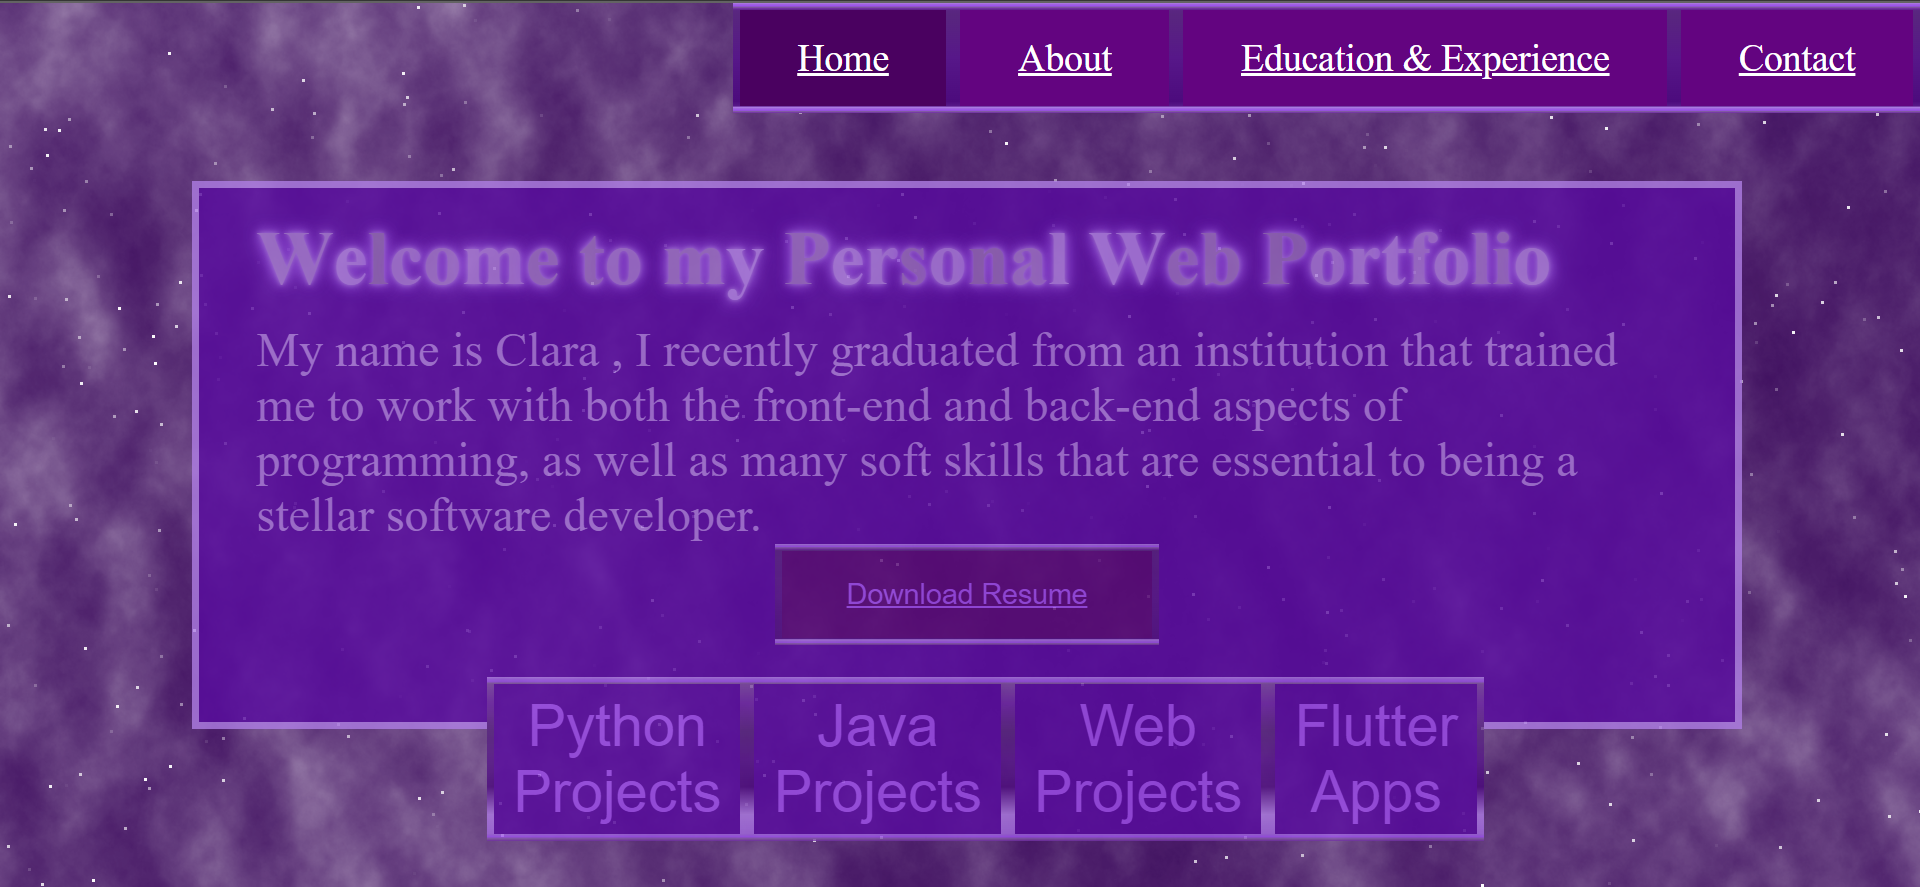
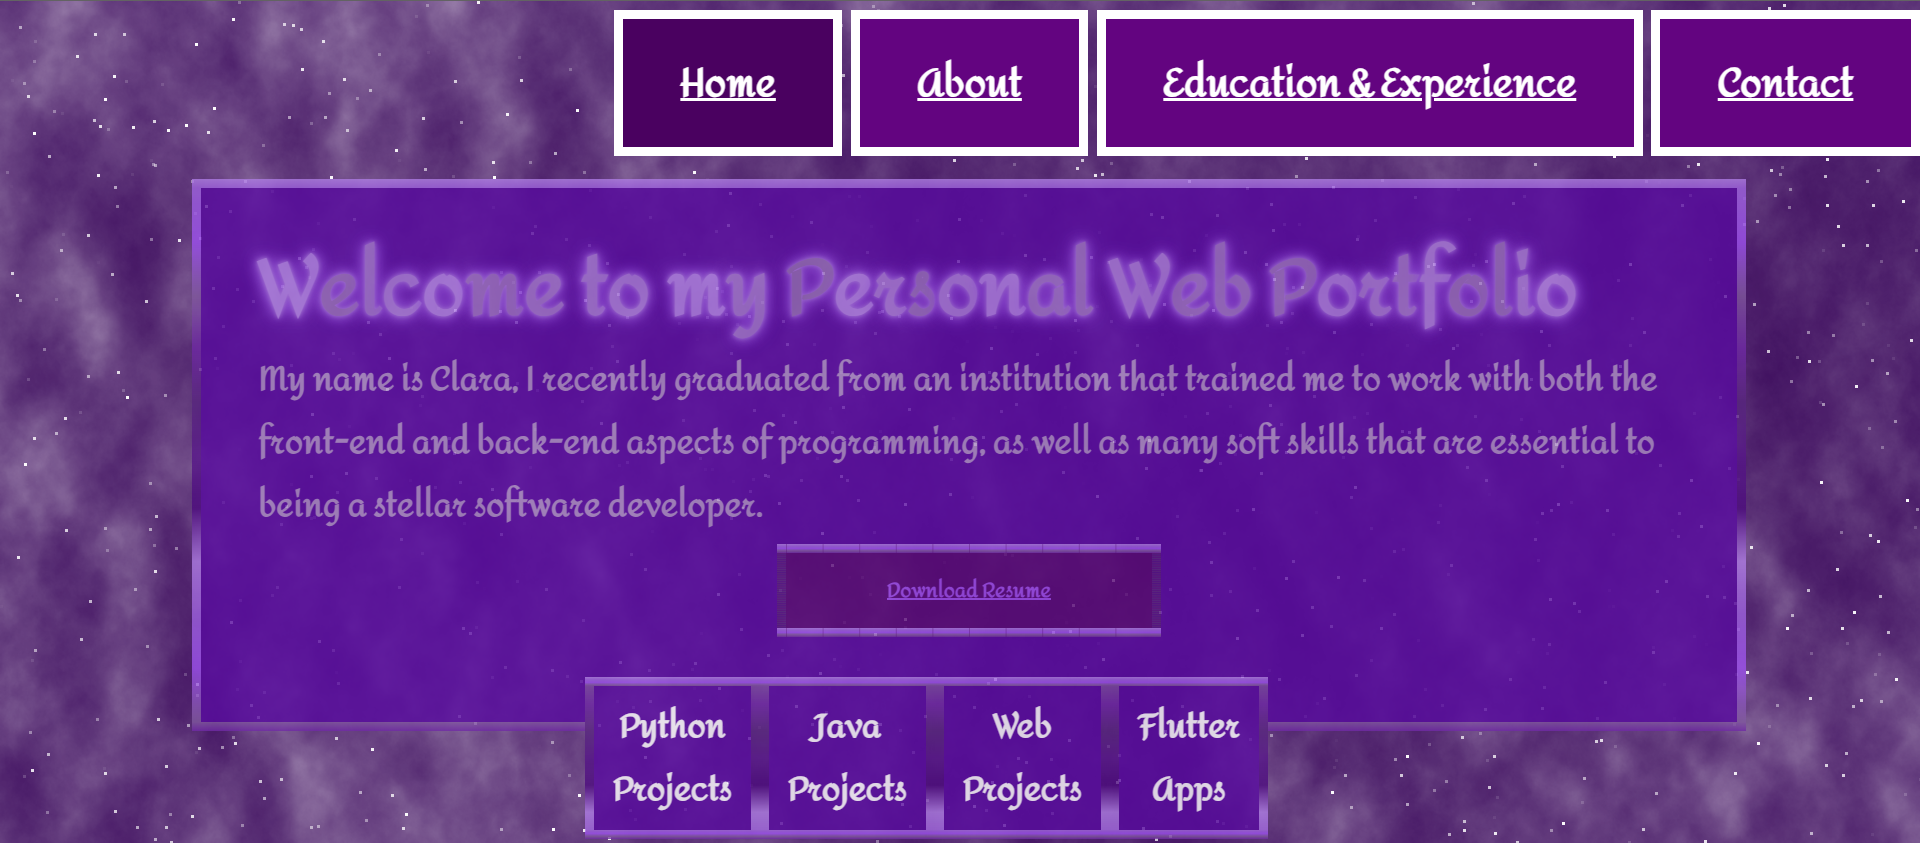
Modifications

diff --git a/portfolio.css b/portfolio.css
@@ -14,17 +14,16 @@ img{
   height: 50vh;
 }
 hr{
-  height: 5px;
+  height: 10px;
   border: none;
   background-color: #7c1586;
-  border-radius: 10px;
   margin-top: 0px;
   margin-bottom: 2vh;
-  border-radius: 5%;
+  border-radius: 30vw;
 }
 .nav-bar {
   float: right;
-  font-size: 25px;
+  font-size: 2vw;
   border-radius: 5;
   margin-left:0 ;
   margin-top: 5vh;  
@@ -37,9 +36,9 @@ hr{
   padding-left: 3vw;
   color: #f2f2f2;
   text-align: center;
-  border-width: 5px;
+  border-width: 0.5vw;
   border-style: solid;
-  border-radius: 5%;
+  /* border-radius: 5%; */
 }
 
 .nav-bar a.active {
@@ -54,7 +53,7 @@ hr{
 
 .nav-bar a:hover {
   background-color: #4a0160;
-  font-size: 25px;  
+  font-size: 2.3vw;
 }
 
 .starry_background {
@@ -85,8 +84,7 @@ hr{
   position: absolute; 
   background-color: rgb(87, 10, 159) ;  
   opacity: 0.8; 
-  border-width: 5px;  
-  border-radius: 5 ;
+  border-width: 0.5vw;  
   border-style: solid; 
   width: 80vw;
   height: 60vh;
@@ -94,7 +92,6 @@ hr{
   margin-right: 10vw;
   margin-left: 10vw;
   border-image: linear-gradient(#ae7de3,rgb(158, 98, 222),#9d51ef,#80589e, #6f29a5,rgb(88, 38, 126),rgb(87, 23, 137),#4c0b7d, #ae7de3,rgb(158, 98, 222),#9d51ef,#80589e, #6f29a5) 30;
-
 }
 
 
@@ -107,7 +104,6 @@ hr{
   margin-left: 3vw;
   margin-right: 3vw;
   color: #ae7de3;
-
 }
 
 .introduction h1 span {
@@ -189,19 +185,18 @@ hr{
   position: absolute;
   margin-top: 40vh;
   margin-left: 30vw; 
-  padding-top: 18px;
-  padding-bottom: 18px;
-  padding-right: 18px;
-  padding-left: 18px;
-  font-size: 20px;
-  border-radius: 10px;
+  padding-top: 2vh;
+  padding-bottom: 2vh;
+  padding-right: 2vw;
+  padding-left: 2vw;
   border-image: linear-gradient(#ae7de3,rgb(158, 98, 222),#9d51ef,#80589e, #6f29a5,rgb(88, 38, 126),rgb(87, 23, 137),#4c0b7d, #ae7de3,rgb(158, 98, 222),#9d51ef,#80589e, #6f29a5) 33% round; 
-  border-width: 5px;
+  border-width: 0.5vw;  
+  border-style: solid;   
   background: #570976;	
 }
 
 .resume a:hover {
-  font-size: 23px;  
+  font-size: 1.7vw;  
 }
 
 .skill-buttons {
@@ -213,26 +208,24 @@ hr{
 
 .skill1, .skill2, .skill3, .skill4{
     background-color: rgb(87, 10, 159); 
-    border-radius: 5;
     border-image: linear-gradient(#ae7de3,rgb(158, 98, 222),#9d51ef,#80589e, #6f29a5,rgb(88, 38, 126),rgb(87, 23, 137),#4c0b7d, #ae7de3,rgb(158, 98, 222),#9d51ef,#80589e, #6f29a5) 30;
-    border-width: 5px;
+    border-width: 0.5vw;  
     border-style: solid;
     color: white;
     padding: 1vh 1vw 1vh 1vw;
-    font-size: 1.8vw;
+    font-size: 1.7vw;
     font-family: 'Amita';
     font-weight: bold;
 }
 .skill1:hover, .skill2:hover, .skill3:hover, .skill4:hover{
-  padding: 2vh 2vw 2vh 2vw;
   font-size: 2vw;
 }
 table,th,td{
   border-color: rgb(87, 10, 159) ;    
 }
 th,td{
-  border-radius: 10px;
-  border: 1px solid transparent;
+  border-radius: 1vw;
+  border: 1vw solid transparent;
 }
 
 .timeline{
@@ -242,7 +235,7 @@ th,td{
   margin-right: 10vw;
   margin-left: 10vw;
   border-image: linear-gradient(#ae7de3,rgb(158, 98, 222),#9d51ef,#80589e, #6f29a5,rgb(88, 38, 126),rgb(87, 23, 137),#4c0b7d, #ae7de3,rgb(158, 98, 222),#9d51ef,#80589e, #6f29a5) 30;
-  border-width: 5px;
+  border-width: 0.5vw;  
   border-style: solid;
   color: white;
   background-color: rgb(87, 10, 159) ;  
@@ -252,7 +245,6 @@ th,td{
   align-items: center;
   position: absolute; 
   border-spacing: 1vw;
-  font-size: 17px;
 }
 
 th, td{
@@ -266,10 +258,11 @@ th, td{
 
 td{
   background-color:  #630480;
+  font-size: 2.3vh;
 }
 
 th{
-  font-size: 20px;
+  font-size: 3vh;
   background-color: #7c1586;
 }
 
@@ -279,10 +272,9 @@ th{
   margin-top: 20vh;
   margin-right: 10vw;
   margin-left: 10vw;
-  border-radius: 5;
   border-image: linear-gradient(#ae7de3,rgb(158, 98, 222),#9d51ef,#80589e, #6f29a5,rgb(88, 38, 126),rgb(87, 23, 137),#4c0b7d, #ae7de3,rgb(158, 98, 222),#9d51ef,#80589e, #6f29a5) 30;
-  border-width: 5px;
-  border-style: solid; 
+  border-width: 0.5vw;  
+  border-style: solid;
   position: absolute; 
   color: white;
   background-color: rgb(87, 10, 159) ;  
@@ -299,16 +291,11 @@ th{
 
 .about hr{
   width: 70vw;
-  height: 5px;
-  border: none;
-  background-color: #7c1586;
-  border-radius: 10px;
+  /* height: 0.5vw; */
   margin-top: 0px;
   margin-left:5vw;
   margin-bottom: 2vh;
-  border-radius: 5%;
 }
-
 
 .about ol{
   margin-top:2%;
@@ -332,25 +319,12 @@ th{
   margin-top: 20vh;
   margin-right: 10vw;
   margin-left: 10vw;
-  font-size: 30px;
   background-color: rgb(87, 10, 159) ;  
-  border-radius: 5;
   border-image: linear-gradient(#ae7de3,rgb(158, 98, 222),#9d51ef,#80589e, #6f29a5,rgb(88, 38, 126),rgb(87, 23, 137),#4c0b7d, #ae7de3,rgb(158, 98, 222),#9d51ef,#80589e, #6f29a5) 30;
-  border-width: 5px;
+  border-width: 0.5vw;  
   border-style: solid;
   color: white;
-  opacity: 0.8; 
-  border-width: 5px;  
-  border-radius: 5 ;
-  border-style: solid;   
-}
-
-.socials_and_contact_icons img{
-  height: 7vh;
-  width: 4vw;
-  border: #4c0b7d;
-  border-width: 5px;
-  border-radius: 1vw;
+  opacity: 0.8;   
 }
 
 .contact_form, .socials_and_contact_icons{
@@ -367,15 +341,17 @@ th{
   margin-bottom: 0px;
 }
 .contact_form hr{
-  height: 5px;
-  border: none;
   background-color: #7c1586;
-  border-radius: 10px;
-  margin-bottom: 2vh;
-  border-radius: 5%;
+  margin-bottom: 2vh;  
+  /* border: none; */
+  /* background-color: #7c1586; */
+  /* margin-top: 0px;
+  margin-bottom: 2vh; */
+  /* border-radius: 30vw; */
 }
 .contact_form {
-  width: 35%;  
+  width: 35%; 
+  height: auto; 
   margin-bottom: 1vh;
 }
 
@@ -384,25 +360,36 @@ th{
   border-radius: 7vw;
   outline: none;
   margin-bottom: 1vh;
+  line-height: 1.5em;
 }
 
-input,textarea {
-  width: 100%; 
-  padding: 3vh; 
+input , textarea{
+  width: 30vw; 
+  height: 5vh;
+  padding: 1vh; 
   box-sizing: border-box; 
-  resize: vertical ;
 } 
 
+textarea{
+  height:10vh !important;
+  resize:none;
+}
+
 input[type=submit] {
+  width: 20vw; 
+  height: 7vh;
   background-color: #630480;  
   border: none;
-  border-radius: 4px;
-  padding-top: 3vh;
-  padding-bottom: 3vh;
-  padding-right: 3vw;
-  padding-left: 3vw;
+  border-radius: 7vw;
+  border-style: solid;
+  padding-top: 2vh;
+  padding-bottom: 2vh;
+  padding-right: 1vw;
+  padding-left: 1vw;
+  margin-left: 4vw;
   color: white;
-} 
+  font-size: 1.5vw;
+}
 
 input[type=submit]:hover {
   background-color: #4a0160;
@@ -414,7 +401,7 @@ input[type=submit]:hover {
   margin-right: 10vw;
   margin-left: 10vw;
   border-image: linear-gradient(#ae7de3,rgb(158, 98, 222),#9d51ef,#80589e, #6f29a5,rgb(88, 38, 126),rgb(87, 23, 137),#4c0b7d, #ae7de3,rgb(158, 98, 222),#9d51ef,#80589e, #6f29a5) 30;
-  border-width: 5px;
+  border-width: 0.5vw;  
   border-style: solid;
   position: absolute; 
   color: white;
@@ -428,9 +415,7 @@ input[type=submit]:hover {
   height: 50vh;
 }
 
-
 .project-container-info {
-  font-size: 15px;
   color: white;
   margin-top: 30px;
   margin-left: 30px;
@@ -443,13 +428,12 @@ input[type=submit]:hover {
     padding: 0;
   }
 
-  
-  .nav-bar a {
+  /* .nav-bar a {
     padding-top: 0.7vh;
     padding-bottom: 0.7vh;
     padding-right: 0.7vw;
     padding-left: 0.7vw;
-  }
+  } */
 
   .introduction{
     height:70vh ;
@@ -492,34 +476,23 @@ input[type=submit]:hover {
   th{
     font-size: 3.5vw;
     color: white;
-
-  }
-
-  .socials_and_contact{
-    width: 82vw;
-  }
-
-  .contact_form{
-    width: 57vw;
-    margin-top: 1vh;
-    margin-right: 3vw;
   }
 
   .project-container img{
     width: 70vw;
   }
 }
+
 .fa {
   padding: 20px;
-  font-size: 30px;
-  width: 30px;
+  width: 2vw;
   text-align: center;
   text-decoration: none;
   border-radius: 50%;
 }
 
 .fa:hover {
-    opacity: 0.7;
+  opacity: 0.7;
 }
 
 .fa-linkedin {

diff --git a/contact-information/contact-info.html b/contact-information/contact-info.html
@@ -49,13 +49,13 @@
                         <hr>
                         <form action="https://api.web3forms.com/submit" method="POST">
                             <input type="hidden" name="access_key" value="cc395da8-16ab-4b2f-be57-f81bece795ca">
-                            <label for="full-name">Full Name</label>
-                            <input type="text" id="full-name" name="full-name" placeholder="Your full name.." class="contact-inputs" required> 
+                            <label for="full-name">Full Name</label><br>
+                            <input type="text" id="full-name" name="full-name" placeholder="e.g. John Doe" class="contact-inputs" required> <br>
         
-                            <label for="email-address">Your email Address</label>
-                            <input type="email" id="email-address" name="email-address" placeholder="Your email address.." class="contact-inputs" required> 
-                            <label for="message">Message</label>
-                            <textarea id="message" name="message" placeholder="Your message..." style="height:70px" class="contact-inputs" required></textarea> 
+                            <label for="email-address">Your email Address</label><br>
+                            <input type="email" id="email-address" name="email-address" placeholder="e.g. name@gmail.com" class="contact-inputs" required> <br>
+                            <label for="message">Message</label><br>
+                            <textarea id="message" name="message" placeholder="..." class="contact-inputs" required></textarea> 
         
                             <input type="submit" value="Submit">
                           </form>
